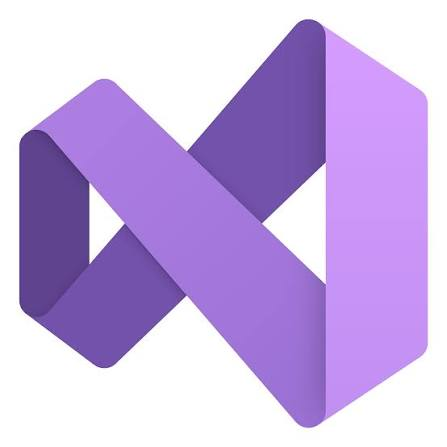
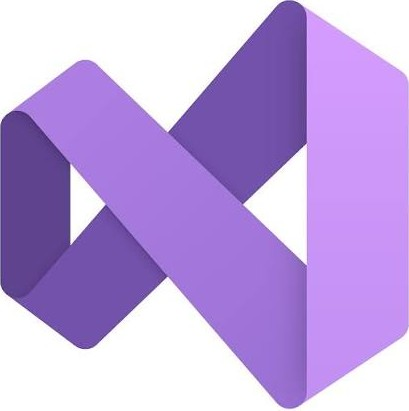
Alteração do tipo de arquivo das imagens

diff --git a/index.html b/index.html
@@ -118,7 +118,7 @@
                 </div>
 
                 <div class="cell">
-                    <img src="imagem/VS code-img.png" alt="ícone VS code">
+                    <img src="imagem/VScode-img.jpg" alt="ícone VS code">
                     <span>VS Code</span>
                 </div>
 
